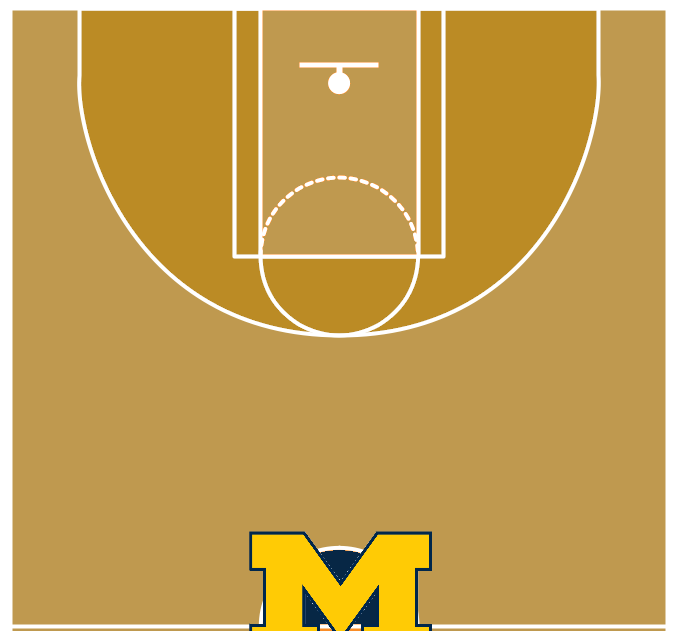
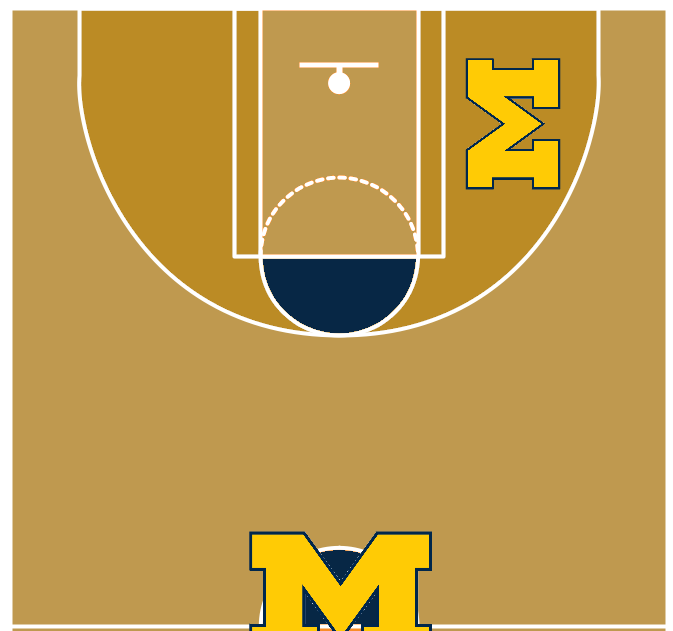
Both the rebounding and shooting games are functional

Changed region(s): [[0.6865, 0.0903, 0.8425, 0.3011], [0.3744, 0.3914, 0.6241, 0.542]]

diff --git a/js/script.js b/js/script.js
@@ -3,7 +3,7 @@
  */
 
 $(document).ready(function() {
-    $(".personalID, #opt2, #opt1, #secondMessage, #spacing, #showFollowers, #secret, #timer, #practiceStart, #courtTable").hide();
+    $(".personalID, #opt2, #opt1, #secondMessage, #spacing, #showFollowers, #secret, #timer, #practiceStart, #courtTable, #practiceSkip, #directions").hide();
     $(".userSelect, #opt2, #opt1").mouseenter(function() {
         $(this).css({opacity: 1});
     }).mouseleave(function() {
@@ -14,14 +14,20 @@ $(document).ready(function() {
         document.getElementById("secret").innerHTML = document.getElementById($(this).attr('id') + "PID").innerHTML;
         document.getElementById("message").innerHTML = "Nice Choice! Step into " + document.getElementById($(this).attr('id') + "name").innerHTML + "'s shoes for the season!";
         $(".userSelect").hide();
-        $("#opt2, #opt1, #spacing").show();
+        $("#opt2, #opt1, #spacing, #secondMessage").show();
+        $("#messenger").css("height", "230px");
+        document.getElementById("secondMessage").innerHTML = "You can use 1 and 2 or f and j on your keyboard to select the first or second option";
         document.getElementById("opt1").innerHTML = "START";
         document.getElementById("opt2").innerHTML = "Go back";
     });
-    $(".basketball").click(function() {
-       selectedPlayer.items.push(this.id.toString());
-        $("#" + this.id).hide();
-    });
+}).keyup(function(event) {
+    if(document.getElementById("secret").innerHTML !== '') {
+        if (event.keyCode == 49 || event.keyCode == 70) {
+            $("#opt1").click();
+        } else if (event.keyCode == 50 || event.keyCode == 74) {
+            $("#opt2").click();
+        }
+    }
 });
 
 //OBJECT CONSTRUCTORS//
@@ -202,6 +208,10 @@ CD.account = new Account('crystald5', 7100, 'img/lskdfhals.jpg');
 KA.account = new Account('kristine_31', 8700, 'img/lskdfhals.jpg');
 KF.account = new Account('katelynnflaherty', 8900, 'img/lskdfhals.jpg');
 SW.account = new Account('swiesebaby24', 3500, 'img/lskdfhals.jpg');
+GA.account = new Account('THEnoAuriemma', 1000, 'img/GA.png');
+LG.account = new Account('CalCoachG', 1000, 'img/LG.png');
+KBA.account = new Account('KBA_GoBlue', 1000, 'img/KBA.png');
+SR.account = new Account('CoachRueck', 1000, 'img/SR.png');
 //DEFINING VARIABLES//
 
 
@@ -247,6 +257,8 @@ function showFollowers() {
 }
 
 function startGame() {
+    $("#secondMessage").hide();
+    $("#messenger").css("height", "180px");
     selectedPlayer = getObject(allPlayers, document.getElementById("secret").innerHTML);
     selectedTeam = selectedPlayer.team;
     document.getElementById("message").innerHTML = "Congrats! Your " + selectedTeam.school + " basketball team is ready to start the season."
@@ -305,7 +317,7 @@ function noFlash() {
 }
 
 function chooseFace() {
-    document.getElementById("message").innerHTML = "Smile or look fierce?";
+    document.getElementById("message").innerHTML = "Smile or Smize?";
     document.getElementById("opt1").innerHTML = "Smile :)";
     document.getElementById("opt2").innerHTML = "Glaring all the way!";
     document.getElementById("opt1").setAttribute('onclick','smile()');
@@ -399,15 +411,17 @@ function countDown() {
         document.getElementById("timer").innerHTML = count.toString();
     } else {
         document.getElementById("timer").innerHTML = "TIME'S UP!";
+        $("#practiceSkip").hide()
     }
 
 }
 
 function rebounds() {
     $("#messenger, #spacing, #showFollowers, .basketball").hide();
-    $("#timer, #practiceStart, #courtTable").show();
+    $("#timer, #practiceStart, #courtTable, #practiceSkip, #directions").show();
     document.getElementById("timer").innerHTML = count.toString();
     document.getElementById("practiceStart").setAttribute('onclick', 'startRebounding()');
+    document.getElementById("directions").innerHTML = "Click on as many B-balls as you can to pick them up"
 }
 
 function getFive() {
@@ -416,9 +430,21 @@ function getFive() {
     $(visibleBBs).show();
 }
 
+var whichShot = 0;
+var practiceShotCount = 0;
+
+function getShot() {
+    whichShot = getRandomInt(1,10);
+    document.getElementById('courtTable').setAttribute('background', 'img/' + selectedTeam.school + " Shots/" + selectedTeam.school + whichShot + ".png")
+}
+
 //work on timer
 function startRebounding() {
-    $("#practiceStart").hide();
+    $("#practiceStart, #directions").hide();
+    $(".basketball").click(function() {
+        selectedPlayer.items.push(this.id.toString());
+        $("#" + this.id).hide();
+    });
     setTimeout(finishPractice, 20000);
     var countInterval = setInterval(countDown, 1000);
     var fiveInterval = setInterval(getFive, 1250);
@@ -426,24 +452,136 @@ function startRebounding() {
     setTimeout(function() { var number = selectedPlayer.items.length; document.getElementById("timer").innerHTML = "You caught " + number + " of those suckers" }, 17000);
 }
 
+function skipPractice() {
+    $("#messenger, #showFollowers").show();
+    $("#courtTable, #timer, #secondMessage, #practiceStart, #practiceSkip").hide();
+    $("#messenger").css("height", "180px");
+    document.getElementById("message").innerHTML = "Hmm, laziness is one strategy. Let's check in on your coach, " + selectedTeam.coach.firstName + " " + selectedTeam.coach.lastName
+    document.getElementById("opt1").setAttribute('onclick', 'coachTalk()');
+    document.getElementById("opt2").setAttribute('onclick', 'coachTalk()');
+    document.getElementById("opt1").innerHTML = "Go ahead";
+    document.getElementById("opt2").innerHTML = "I'm gone";
+    selectedPlayer.FG += practiceShotCount/1.5;
+}
 
 function finishPractice() {
-    console.log(selectedPlayer.items.join(""));
+    // console.log(selectedPlayer.items.join(""));
     $("#messenger, #showFollowers").show();
-    $("#courtTable, #timer, #secondMessage").hide();
+    $("#courtTable, #timer, #secondMessage, #practiceSkip").hide();
     $("#messenger").css("height", "180px");
     document.getElementById("message").innerHTML = "Nice work! Hit the showers and we’ll check in on your coach, " + selectedTeam.coach.firstName + " " + selectedTeam.coach.lastName
     document.getElementById("opt1").setAttribute('onclick', 'coachTalk()');
     document.getElementById("opt2").setAttribute('onclick', 'coachTalk()');
     document.getElementById("opt1").innerHTML = "Go ahead";
     document.getElementById("opt2").innerHTML = "I'm gone";
+    selectedPlayer.FG += practiceShotCount/1.5;
 }
 
 function shooting() {
-    $("#messenger, #spacing").hide();
+    $("#messenger, #spacing, #showFollowers, .basketball").hide();
+    $("#timer, #practiceStart, #courtTable, #practiceSkip, #BB13, #directions").show();
+    $(function() {
+        $("#BB13").draggable({ containment: "#courtTable", scroll: false });
+    });
+    document.getElementById("courtTable").setAttribute('background', 'img/' + selectedTeam.school + 'Court.png');
+    document.getElementById("timer").innerHTML = count.toString();
+    document.getElementById("practiceStart").setAttribute('onclick', 'startShooting()');
+    document.getElementById("directions").innerHTML = "Accuracy is the key here. Drag your shots to the mark and make sure you can see the whole width of the court"
+}
 
+var shotTopLB = 0;
+var shotTopUB = 0;
+var shotLeftLB = 0;
+var shotLeftUB = 0;
+
+function defineShotLocation() {
+    if(whichShot == 1) {
+        shotTopLB = 13;
+        shotTopUB = 25;
+        shotLeftLB = 315;
+        shotLeftUB = 327;
+    } else if(whichShot == 2) {
+        shotTopLB = 111;
+        shotTopUB = 123;
+        shotLeftLB = 312;
+        shotLeftUB = 324;
+    } else if(whichShot == 3) {
+        shotTopLB = 256;
+        shotTopUB = 268;
+        shotLeftLB = 312;
+        shotLeftUB = 324;
+    } else if(whichShot == 4) {
+        shotTopLB = 351;
+        shotTopUB = 363;
+        shotLeftLB = 310;
+        shotLeftUB = 322;
+    } else if(whichShot == 5) {
+        shotTopLB = 110;
+        shotTopUB = 122;
+        shotLeftLB = 177;
+        shotLeftUB = 189;
+    } else if(whichShot == 6) {
+        shotTopLB = 108;
+        shotTopUB = 120;
+        shotLeftLB = 447;
+        shotLeftUB = 459;
+    } else if(whichShot == 7) {
+        shotTopLB = 34;
+        shotTopUB = 46;
+        shotLeftLB = 18;
+        shotLeftUB = 30;
+    } else if(whichShot == 8) {
+        shotTopLB = 36;
+        shotTopUB = 48;
+        shotLeftLB = 605;
+        shotLeftUB = 617;
+    } else if(whichShot == 9) {
+        shotTopLB = 234;
+        shotTopUB = 246;
+        shotLeftLB = 62;
+        shotLeftUB = 74;
+    } else if(whichShot == 10) {
+        shotTopLB = 224;
+        shotTopUB = 236;
+        shotLeftLB = 561;
+        shotLeftUB = 573;
+    }
+}
+
+function startShooting() {
+    $("#practiceStart, #directions").hide();
+    getShot();
+    defineShotLocation();
+    setTimeout(finishPractice, 20000);
+    var countInterval = setInterval(countDown, 1000);
+    setTimeout(function() { clearInterval(countInterval) }, 15000);
+    setTimeout(function() { var number = (practiceShotCount/1.5).toFixed(1); document.getElementById("timer").innerHTML = "Your FG% went up " + number + "%" }, 17000);
+    $("#courtTable").mouseup(function() {
+        if(count>1) {
+            var obj = $("#BB13");
+            var parent = $("#courtTable");
+            var childPos = obj.offset();
+            var parentPos = parent.offset();
+            var childOffset = {
+                top: childPos.top - parentPos.top,
+                left: childPos.left - parentPos.left
+            };
+            if ((childOffset.top < shotTopUB && childOffset.top > shotTopLB) && (childOffset.left < shotLeftUB && childOffset.left > shotLeftLB)) {
+                console.log("bottom");
+                practiceShotCount++;
+                getShot();
+                defineShotLocation();
+            }
+        }
+    })
 }
 
 function coachTalk() {
-
+    document.getElementById("messageIMG").setAttribute('src', selectedTeam.coach.account.picture);
+    document.getElementById("whoMessage").innerHTML = "Coach " + selectedTeam.coach.lastName;
+    document.getElementById("message").innerHTML = "";
+    // document.getElementById("opt1").setAttribute('onclick', 'coachTalk()');
+    // document.getElementById("opt2").setAttribute('onclick', 'coachTalk()');
+    document.getElementById("opt1").innerHTML = "Hey Coach!";
+    document.getElementById("opt2").innerHTML = "How's it going?";
 }

diff --git a/index.html b/index.html
@@ -5,6 +5,8 @@
     <title>WBB</title>
     <script src="https://ajax.googleapis.com/ajax/libs/jquery/3.1.1/jquery.min.js"></script>
     <script src="js/script.js"></script>
+    <script src="https://code.jquery.com/jquery-1.12.4.js"></script>
+    <script src="https://code.jquery.com/ui/1.12.1/jquery-ui.js"></script>
     <link rel="stylesheet" href="css/styles.css"/>
     <link href="https://fonts.googleapis.com/css?family=Iceberg|Open+Sans" rel="stylesheet">
 </head>
@@ -16,7 +18,7 @@
         <div id="messageHolder">
             <img id="messageIMG" src="img/Basketball%20orange.png"/>
             <p class="smallSpace"></p>
-            New Message: BB Messenger</div>
+            <div id="whoMessage">New Message: BB Messenger</div></div>
         <div id="messages-container">
             <div id="messages" class="bordered shadowed">
                 <div id="message">Select Player: Choose wisely!</div>
@@ -72,8 +74,9 @@
     <p>
         <br/>
     </p>
+    <div id="directions"></div>
     <div id="timer"></div>
-    <button id="practiceStart">Start</button>
+    <button id="practiceStart">Start</button><button id="practiceSkip" onclick="skipPractice()">Skip</button>
     <table background="img/CalCourt.png" id="courtTable" style="width:70%">
         <tr>
             <td><img id="BB1" class="basketball" src="img/Basketball%20orange.png"></td>
